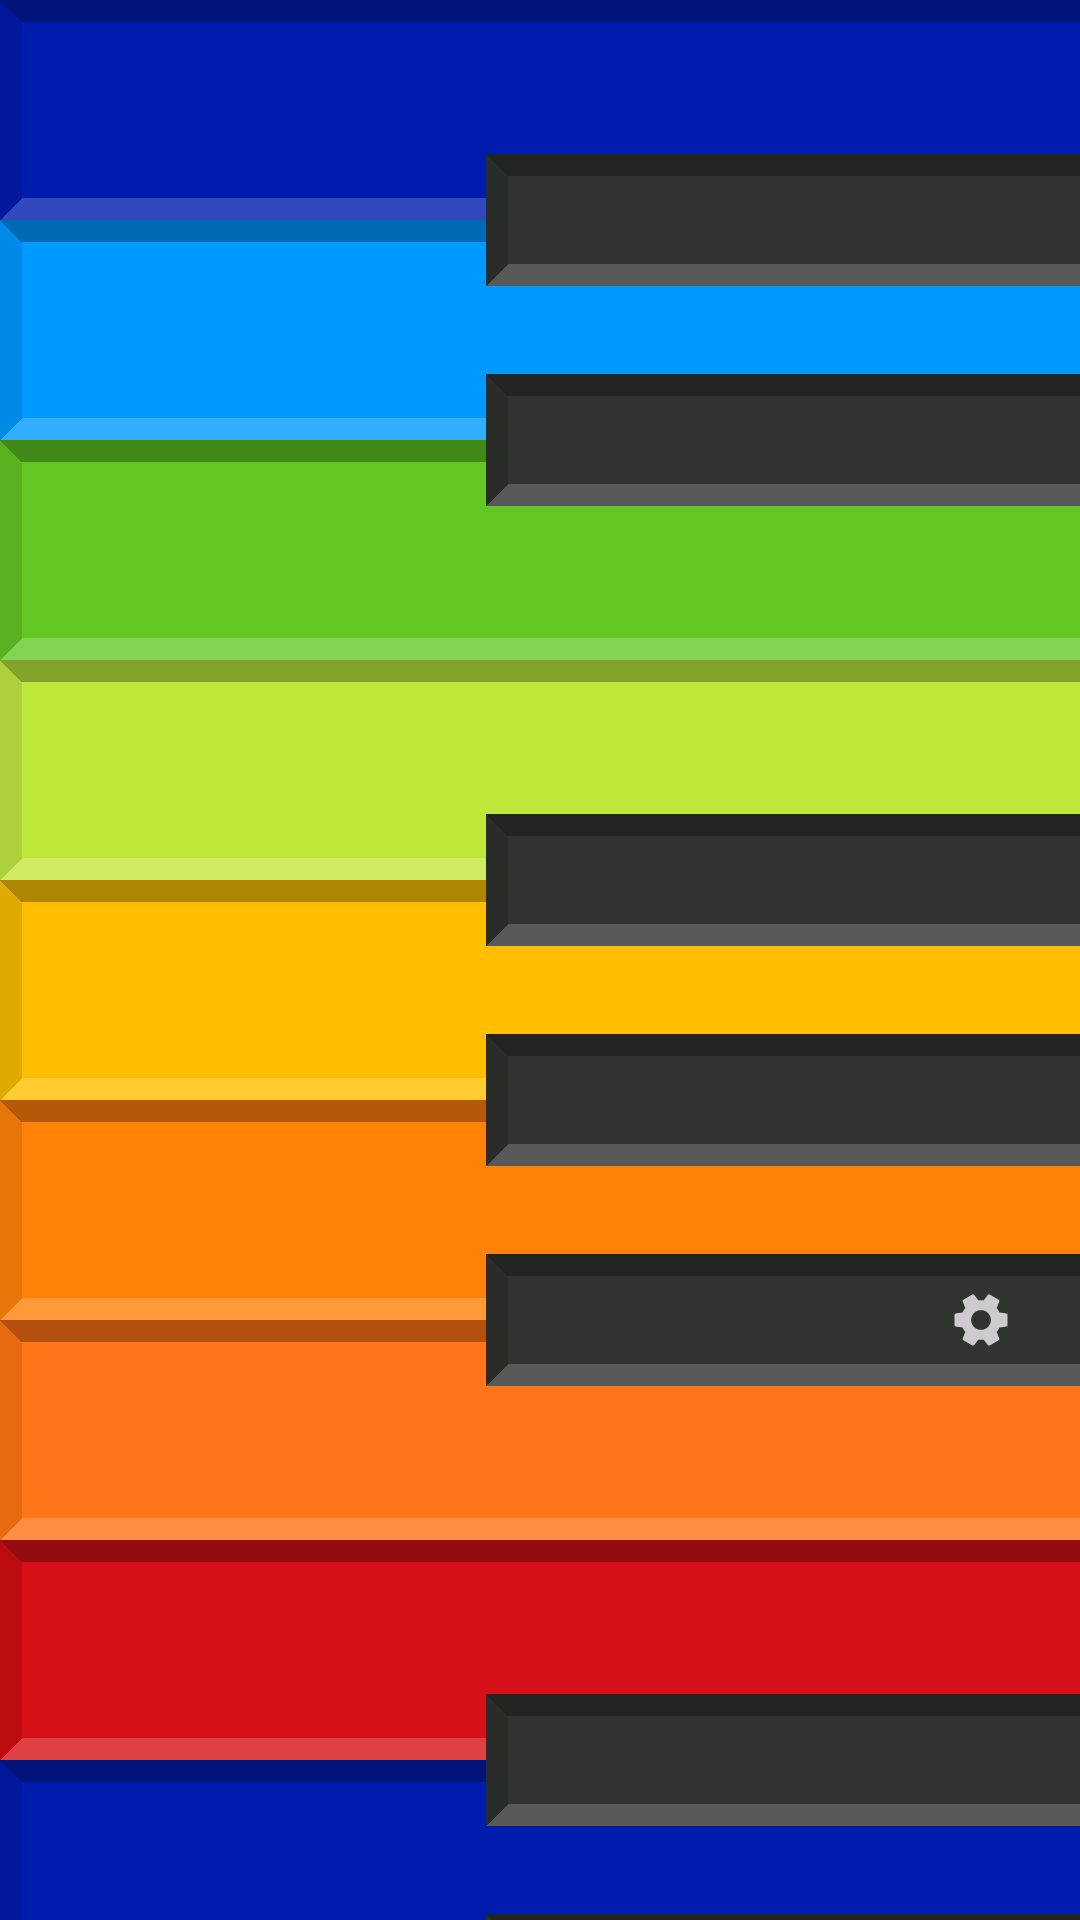
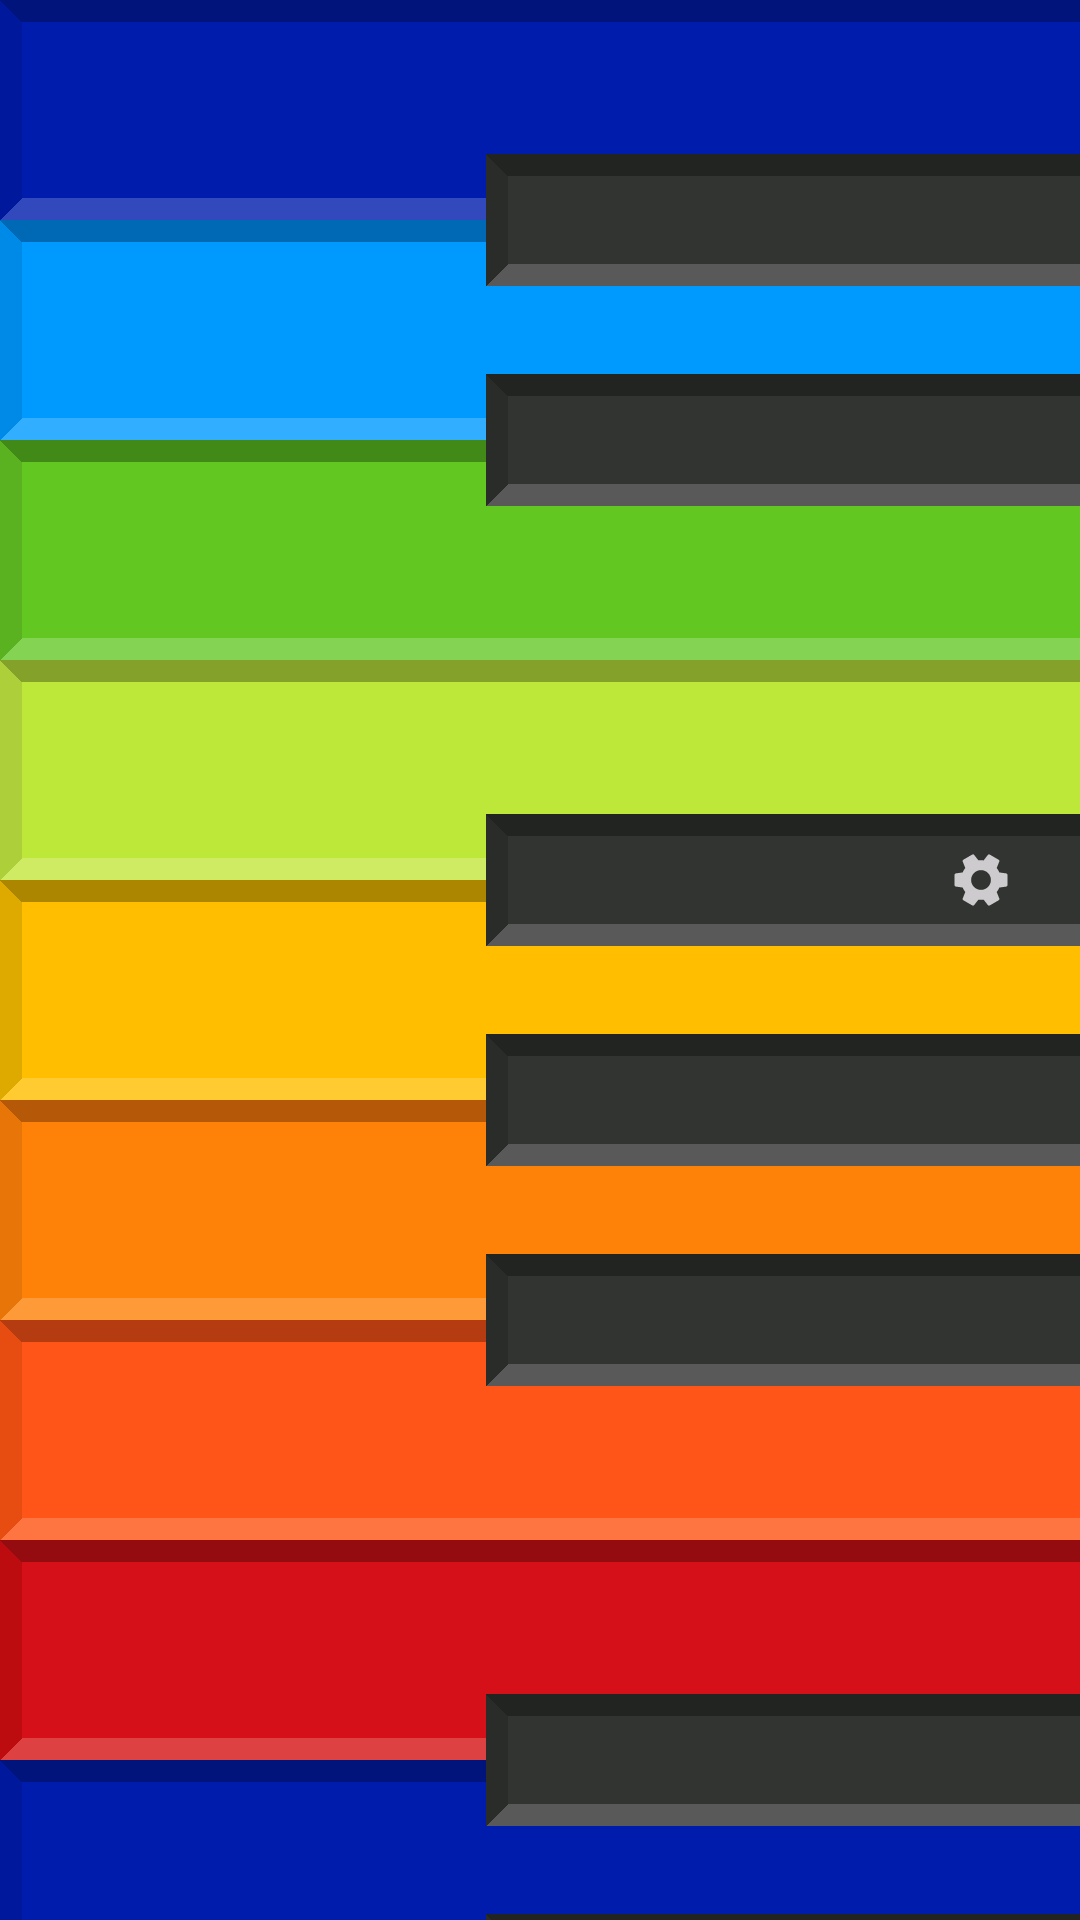
Adjust colours after feedback on GitHub.
Rainbow is lighter, and pastel is from colorbrewer2.

Also reordered themes so most likely to be chosen are shown
first.

Changed region(s): [[0.0, 0.6562, 1.0, 0.8125], [0.8861, 0.4375, 0.9472, 0.4688]]

diff --git a/app/src/main/java/com/nicobrailo/pianoli/Theme.java b/app/src/main/java/com/nicobrailo/pianoli/Theme.java
@@ -18,11 +18,11 @@ public class Theme {
             case "pastel":
                 return PASTEL;
 
-            case "rainbow":
-                return RAINBOW;
+            case "boomwhacker":
+                return BOOMWHACKER;
 
             default:
-                return BOOMWHACKER;
+                return RAINBOW;
         }
     }
 
@@ -45,13 +45,14 @@ public class Theme {
 
     private static final Theme PASTEL = new Theme(
             new KeyColour[] {
-                    KeyColour.createLighterWhenPressed(0xffbbcfc4, 0.5f),  // pistache
-                    KeyColour.createLighterWhenPressed(0xffb0a99c, 0.5f),  // beige
-                    KeyColour.createLighterWhenPressed(0xffffd9a6, 0.5f),  // sand
-                    KeyColour.createLighterWhenPressed(0xffce9043, 0.5f),  // dun
-                    KeyColour.createLighterWhenPressed(0xfff6c1ce, 0.5f),  // lightpink
-                    KeyColour.createLighterWhenPressed(0xffe3777e, 0.5f),  // darkpink
-                    KeyColour.createLighterWhenPressed(0xffa65560, 0.5f),  // plum
+                    // https://colorbrewer2.org/#type=qualitative&scheme=Pastel1&n=8
+                    KeyColour.createLighterWhenPressed(0xfffbb4ae, 0.5f),
+                    KeyColour.createLighterWhenPressed(0xffb3cde3, 0.5f),
+                    KeyColour.createLighterWhenPressed(0xffccebc5, 0.5f),
+                    KeyColour.createLighterWhenPressed(0xffdecbe4, 0.5f),
+                    KeyColour.createLighterWhenPressed(0xfffed9a6, 0.5f),
+                    KeyColour.createLighterWhenPressed(0xffffffcc, 0.5f),
+                    KeyColour.createLighterWhenPressed(0xffe5d8bd, 0.5f),
             }
     );
 
@@ -63,7 +64,7 @@ public class Theme {
                     KeyColour.createLighterWhenPressed(0xffbde53d, 0.5f), // lightgreen
                     KeyColour.createLighterWhenPressed(0xfffcc000, 0.5f), // yellow
                     KeyColour.createLighterWhenPressed(0xffff810a, 0.5f), // lightorange
-                    KeyColour.createLighterWhenPressed(0xffff7416, 0.5f), // darkorange
+                    KeyColour.createLighterWhenPressed(0xffff5616, 0.5f), // darkorange
                     KeyColour.createLighterWhenPressed(0xffd51016, 0.5f), // red
             }
     );

diff --git a/app/src/main/java/com/nicobrailo/pianoli/Preferences.java b/app/src/main/java/com/nicobrailo/pianoli/Preferences.java
@@ -19,7 +19,7 @@ public class Preferences {
     private final static String PREF_SELECTED_SOUND_SET = "selectedSoundSet";
     private final static String PREF_SELECTED_MELODIES = "selectedMelodies";
     private final static String PREF_ENABLE_MELODIES = "enableMelodies";
-    private static final String DEFAULT_THEME = "boomwhacker";
+    private static final String DEFAULT_THEME = "rainbow";
     private final static String PREF_THEME = "theme";
 
     /**
